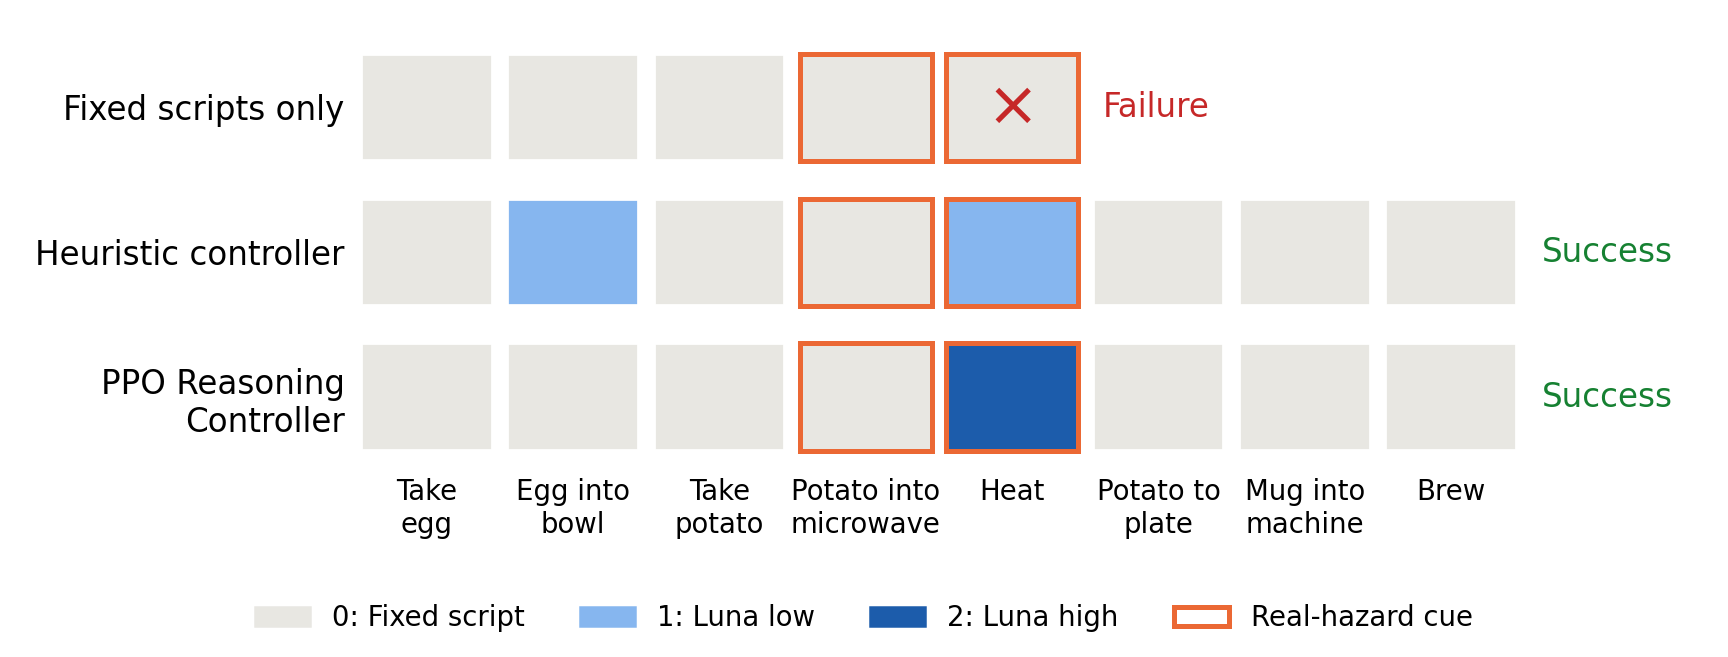
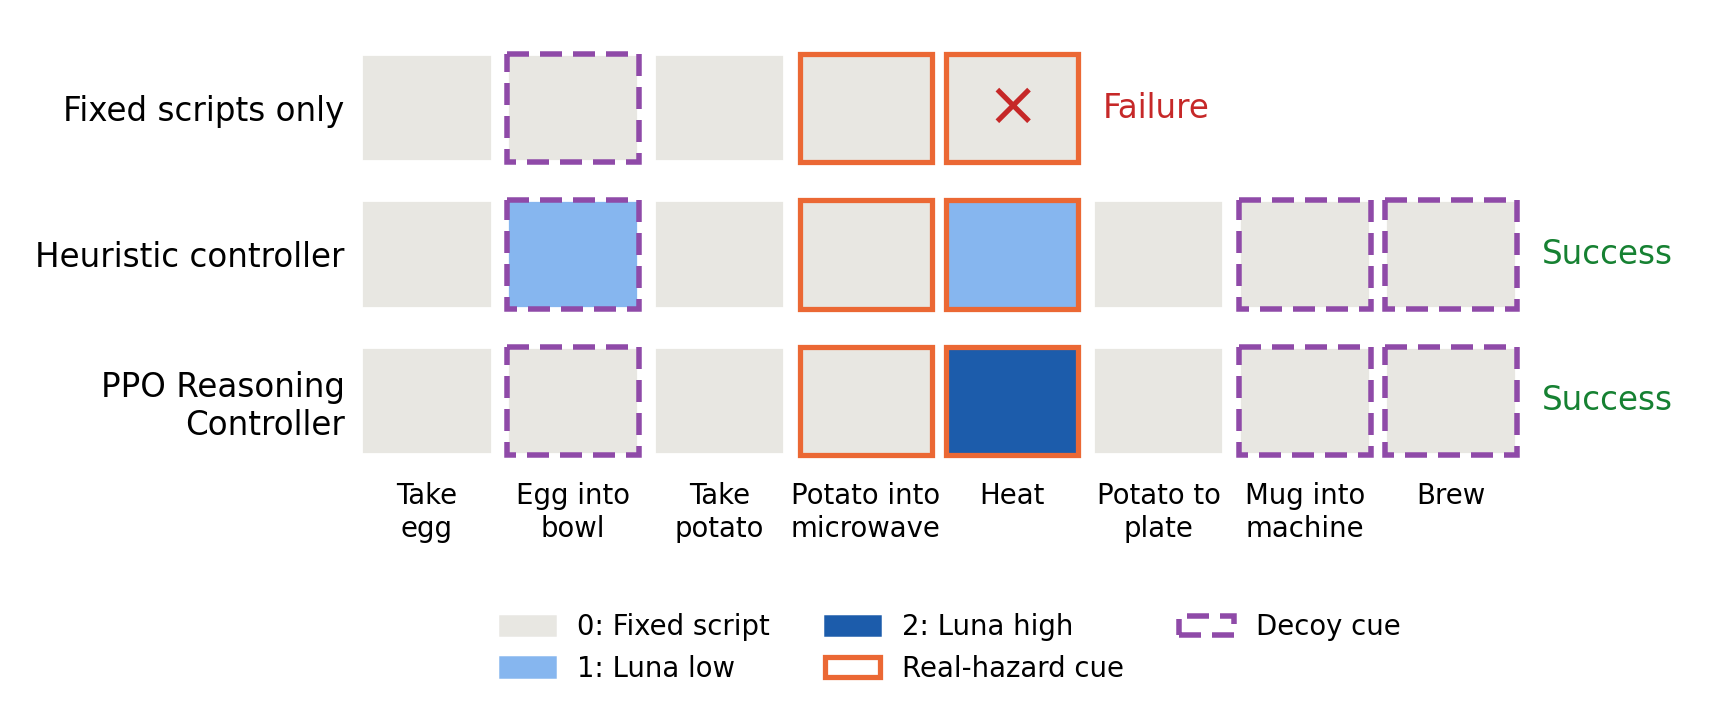
Expand evaluation baselines, mark decoy steps and reorder evidence slides

diff --git a/main.tex b/main.tex
@@ -404,17 +404,21 @@ cost in units of 100 tokens.
 \end{frame}
 
 \begin{frame}{3D evaluation}
-  \textbf{36 tasks.} The same task configurations for all three policies.
+  \textbf{36 tasks.} The same task configurations for all seven policies.
 
   \bigskip
   \begin{center}
-    \renewcommand{\arraystretch}{1.45}
-    \setlength{\tabcolsep}{10pt}
+    \renewcommand{\arraystretch}{1.10}
+    \setlength{\tabcolsep}{8pt}
     \begin{tabular}{@{}lrr@{}}
       \hline
       \textbf{Policy} & \textbf{Task success} & \textbf{Tokens / episode} \\
       \hline
       Fixed scripts only & 28\% & 0 \\
+      Always reason (budgeted) & 47\% & 2,316 \\
+      Always reason (unbudgeted) & 56\% & 16,836 \\
+      Simple heuristic & 44\% & 2,293 \\
+      Step-type rule & 47\% & 2,107 \\
       Heuristic controller & 67\% & 1,547 \\
       \textbf{PPO Reasoning Controller} & \textbf{72\%} & \textbf{1,166} \\
       \hline
@@ -428,9 +432,13 @@ cost in units of 100 tokens.
   \end{center}
 
   \medskip
-  {\par\smallskip
+  {\small\par\smallskip
   \textcolor{codeMuted}{Test kitchens are held out from PPO training, with partial overlap in calibration data.}}
-  \note{About 60 seconds. On 36 paired test tasks, fixed scripts succeed in 28
+  \note{All seven policies are evaluated on the same 36 tasks. The unbudgeted
+  always-reason baseline is exempt from the token limit. Other rows share the
+  task budgets. Added success counts are 17/36 for budgeted always-reason,
+  20/36 for unbudgeted always-reason, 16/36 for the simple heuristic, and
+  17/36 for the step-type rule. About 60 seconds. On 36 paired test tasks, fixed scripts succeed in 28
   percent of episodes. The tuned feature rule reaches 67 percent, and our frozen
   PPO Reasoning Controller reaches 72 percent. That success-rate difference is
   not statistically significant, so the main observation is the lower inference
@@ -468,6 +476,28 @@ cost in units of 100 tokens.
   reproduction repository.}
 \end{frame}
 
+\begin{frame}{One task, three controllers}
+  A fork in the microwave, with a dirty bowl and extra clean mugs as decoys.
+
+  \smallskip
+  \begin{center}
+    \includegraphics[width=\linewidth,height=0.73\textheight,keepaspectratio]{figures/fig3_episode_timeline.png}
+  \end{center}
+  \textbf{In this example, PPO calls Luna once, at heating, and completes the task.}
+  \note{Figure 3, restricted to fixed scripts, the heuristic controller, and PPO.
+  This is recorded task 74000019 in kitchen 6, chosen as an illustrative case.
+  Fixed scripts fail when the microwave starts with a fork inside. The heuristic
+  controller calls Luna twice, once at the dirty-bowl decoy and once at heating.
+  PPO skips the decoy and calls Luna at heating. Both controllers complete the
+  task. The gray, light-blue, and dark-blue cells indicate levels 0, 1, and 2.
+  Solid orange outlines mark steps associated with the real hazard. Dashed
+  purple outlines mark decoy-only steps: egg into bowl, mug into machine, and
+  brew. Fixed scripts stop before reaching the mug-related decoys. No selected row
+  contains a retry, so columns align to the same subtasks. This one example
+  illustrates behavior and is not an independent estimate of average performance.
+  Source: eval\_1.jsonl in the reproduction repository.}
+\end{frame}
+
 \begin{frame}{When does learned reasoning control help?}
   \textbf{Simulation results.} Blue labels show PPO's advantage in percentage points.
 
@@ -486,26 +516,6 @@ cost in units of 100 tokens.
   These are mean performance differences, without a statistical-significance
   claim. Source: fig6\_fig7\_data.json and plot\_extra.py in the reproduction
   repository.}
-\end{frame}
-
-\begin{frame}{One task, three controllers}
-  A fork in the microwave, with a dirty bowl and extra clean mugs as decoys.
-
-  \smallskip
-  \begin{center}
-    \includegraphics[width=\linewidth,height=0.73\textheight,keepaspectratio]{figures/fig3_episode_timeline.png}
-  \end{center}
-  \textbf{In this example, PPO calls Luna once, at heating, and completes the task.}
-  \note{Figure 3, restricted to fixed scripts, the heuristic controller, and PPO.
-  This is recorded task 74000019 in kitchen 6, chosen as an illustrative case.
-  Fixed scripts fail when the microwave starts with a fork inside. The heuristic
-  controller calls Luna twice, once at the dirty-bowl decoy and once at heating.
-  PPO skips the decoy and calls Luna at heating. Both controllers complete the
-  task. The gray, light-blue, and dark-blue cells indicate levels 0, 1, and 2.
-  Orange outlines mark steps associated with the real hazard. No selected row
-  contains a retry, so columns align to the same subtasks. This one example
-  illustrates behavior and is not an independent estimate of average performance.
-  Source: eval\_1.jsonl in the reproduction repository.}
 \end{frame}
 % PPO explanation: implementation mapping, followed by the actual update objective.
 % Source: zzffzz2003/rarrl-reproduction, branch nov13-ppt-materials,
